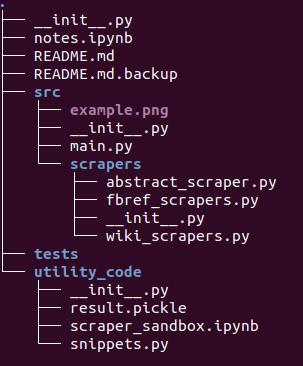
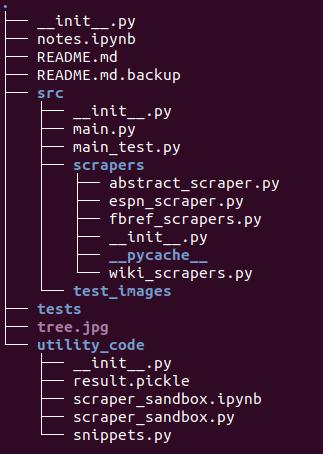
updated and clarified README.md. Modified tree.jpg to reflect ESPN scraper.

Changed region(s): [[0.0, 0.0, 0.9208, 0.9918]]

diff --git a/README.md b/README.md
@@ -15,9 +15,8 @@ The idea is not necessarily to scrape large volumes of data but to demonstrate w
 
 #### Intended functionality:  
 - Crawl [FBRef](https://fbref.com/) to get a list of players in the top European football leagues and stats on the players. _(structured data)_
-- Based of names of players in the first database, automatically crawl Wikipedia pages of players and scrape images, and the article. Retrieve the article and its headings structure so it can be stored as a json object _(scraping unstructured data and storing in NoSQL DB, and scraping images)_  
+- Based of names of players in the first database, figure out the correct Wikipedia link for each player using results from DuckDuckGo's api and then scrape the images and the article from the page. Retrieve the article and its headings structure so it can be stored as a json object _(using APIs, scraping unstructured data and storing in NoSQL DB, and scraping images)_  
 - Access the most recent news headlines on player as they appear in the autocomplete in the search box of [ESPN](https://www.espn.co.uk/football/). _(interacting with browser elements and executing JS)_.  
-- Access Twitter's API to retrieve the most recent tweets by players. _(using APIs)_  
   
 Time permitting, I could build a rudimentary website based on either Flask or FastAPI where one can type in the name of a player and get collated info from all the various sources.
 
@@ -25,7 +24,7 @@ Time permitting, I could build a rudimentary website based on either Flask or Fa
 
 ![fb_aggregator tree](tree.jpg)
 
-The meat of the project is in the ```/src``` folder. The ```/scrapers``` folder within it contains an abstract base class for a scraper and also classes to create various scrapers for [FBRef](https://fbref.com/) and Wikipedia.  
+The meat of the project is in the ```/src``` folder. The ```/scrapers``` folder within it contains an abstract base class for a scraper and also classes to create various scrapers for [FBRef](https://fbref.com/), Wikipedia, and ESPN.  
 
 There are three different scraper classes in ```fbref_scrapers.py```. These include ones for:  
 - retrieving the links of teams the Big 5 European leagues,  
@@ -34,20 +33,23 @@ There are three different scraper classes in ```fbref_scrapers.py```. These incl
 
 The data thus retrieved is stored in two dataframes, one for personal information (one row per player) and one that accumulates all the statistics on the player's page (one row for every season for every player). Both the tables have a ```player_id``` column that could be used to join them for SQL queries. 
 
+
+
 ```main.py``` coordinates the entire entire pipeline. 
 
 
 
 
 ## How to run the project
-Only about half the intended functionality has been implemented but that can be accessed simply by running ```main.py``` in a REPL, assuming the required packages are available (see section on packages required at the end of this document). 
+Some of the intended functionality has yest to be implemented but most of it can be accessed simply by running ```main.py``` in a REPL, assuming the required packages are available (see section on packages required at the end of this document). 
 At the end of the run, three objects will be available to the user:   
 - ```pds``` of class ```PlayerDataScraper```,   
 - ```wcs``` of class ```WikiContentScraper```, and  
 - ```esc``` of class ```ESPNScraper```.  
 
 ### _pds_
-The results of ```pds``` can be accessed by calling the attributes ```pds.personal_info_df``` and ```pds.stats_df``` which contain the personal information and stats dataframes respectively.  
+The results of ```pds``` can be accessed by calling the attributes ```pds.personal_info_df``` and ```pds.stats_df``` which contain the personal information and stats dataframes respectively. 
+There is also a method that inserts these tables into a Postgres Database (insert_to_postgres()). 
 
 ### _wcs_
 The results of ```wcs``` are a bit harder to parse at this stage. ```wcs.content_dict``` contains the content extracted for the last player processed. Calling ```wcs.content_dict.keys()``` will give you an idea of the structure extracted from that player's Wikipedia page. Accessing the content of a given key will display the paragraphs under the section the key represents.  
@@ -66,14 +68,14 @@ Accessing ```wcs.content_dict[('International career', '2011 South American Yout
 
 (note: all the keys are tuples except 'opening', which is a string.)  
 
-So, as mentioned, ```wcs.content_dict``` contains the Wikipedia content and structure of the last-processed player. ```wcs.consolidated_dict``` simply contains the ```content_dicts``` of all players indexed by the same ```player_id``` used in ```pds.personal_info_dict```.  
+So, as mentioned, ```wcs.content_dict``` contains the Wikipedia content and structure of the last-processed player. ```new_content_dict``` contains the same information but in a tree structure that reflects the structure of original Wikipedia article. Finally,  ```wcs.consolidated_dict``` simply contains the ```new_content_dicts``` of all players indexed by the same ```player_id``` used in ```pds.personal_info_dict```.  
 
 Additionally, the ```wcs``` object would have also downloaded any images on the Wikipedia site and stored them in a folder call ```test_images``` in ```src```. 
 
-### _pds_
+### _ecs_
 ```pds.news_dict``` returns a dictionary with player_id as key and a list containing tuples (news headline, link)
 
-There are comprehensive docstrings available for both these objects that can be accessed by ```help(pds)``` or ```help(wcs)```.
+There are comprehensive docstrings available for both these objects that can be accessed by ```help(<object name>)```.
 
 ## Yet to be implemented
 - store dataframes in a Postgres database  
@@ -85,3 +87,6 @@ There are comprehensive docstrings available for both these objects that can be 
 
 - Requests
 - BeautifulSoup4  
+- Playwright
+- SQLAlchemy
+- Psycopg
